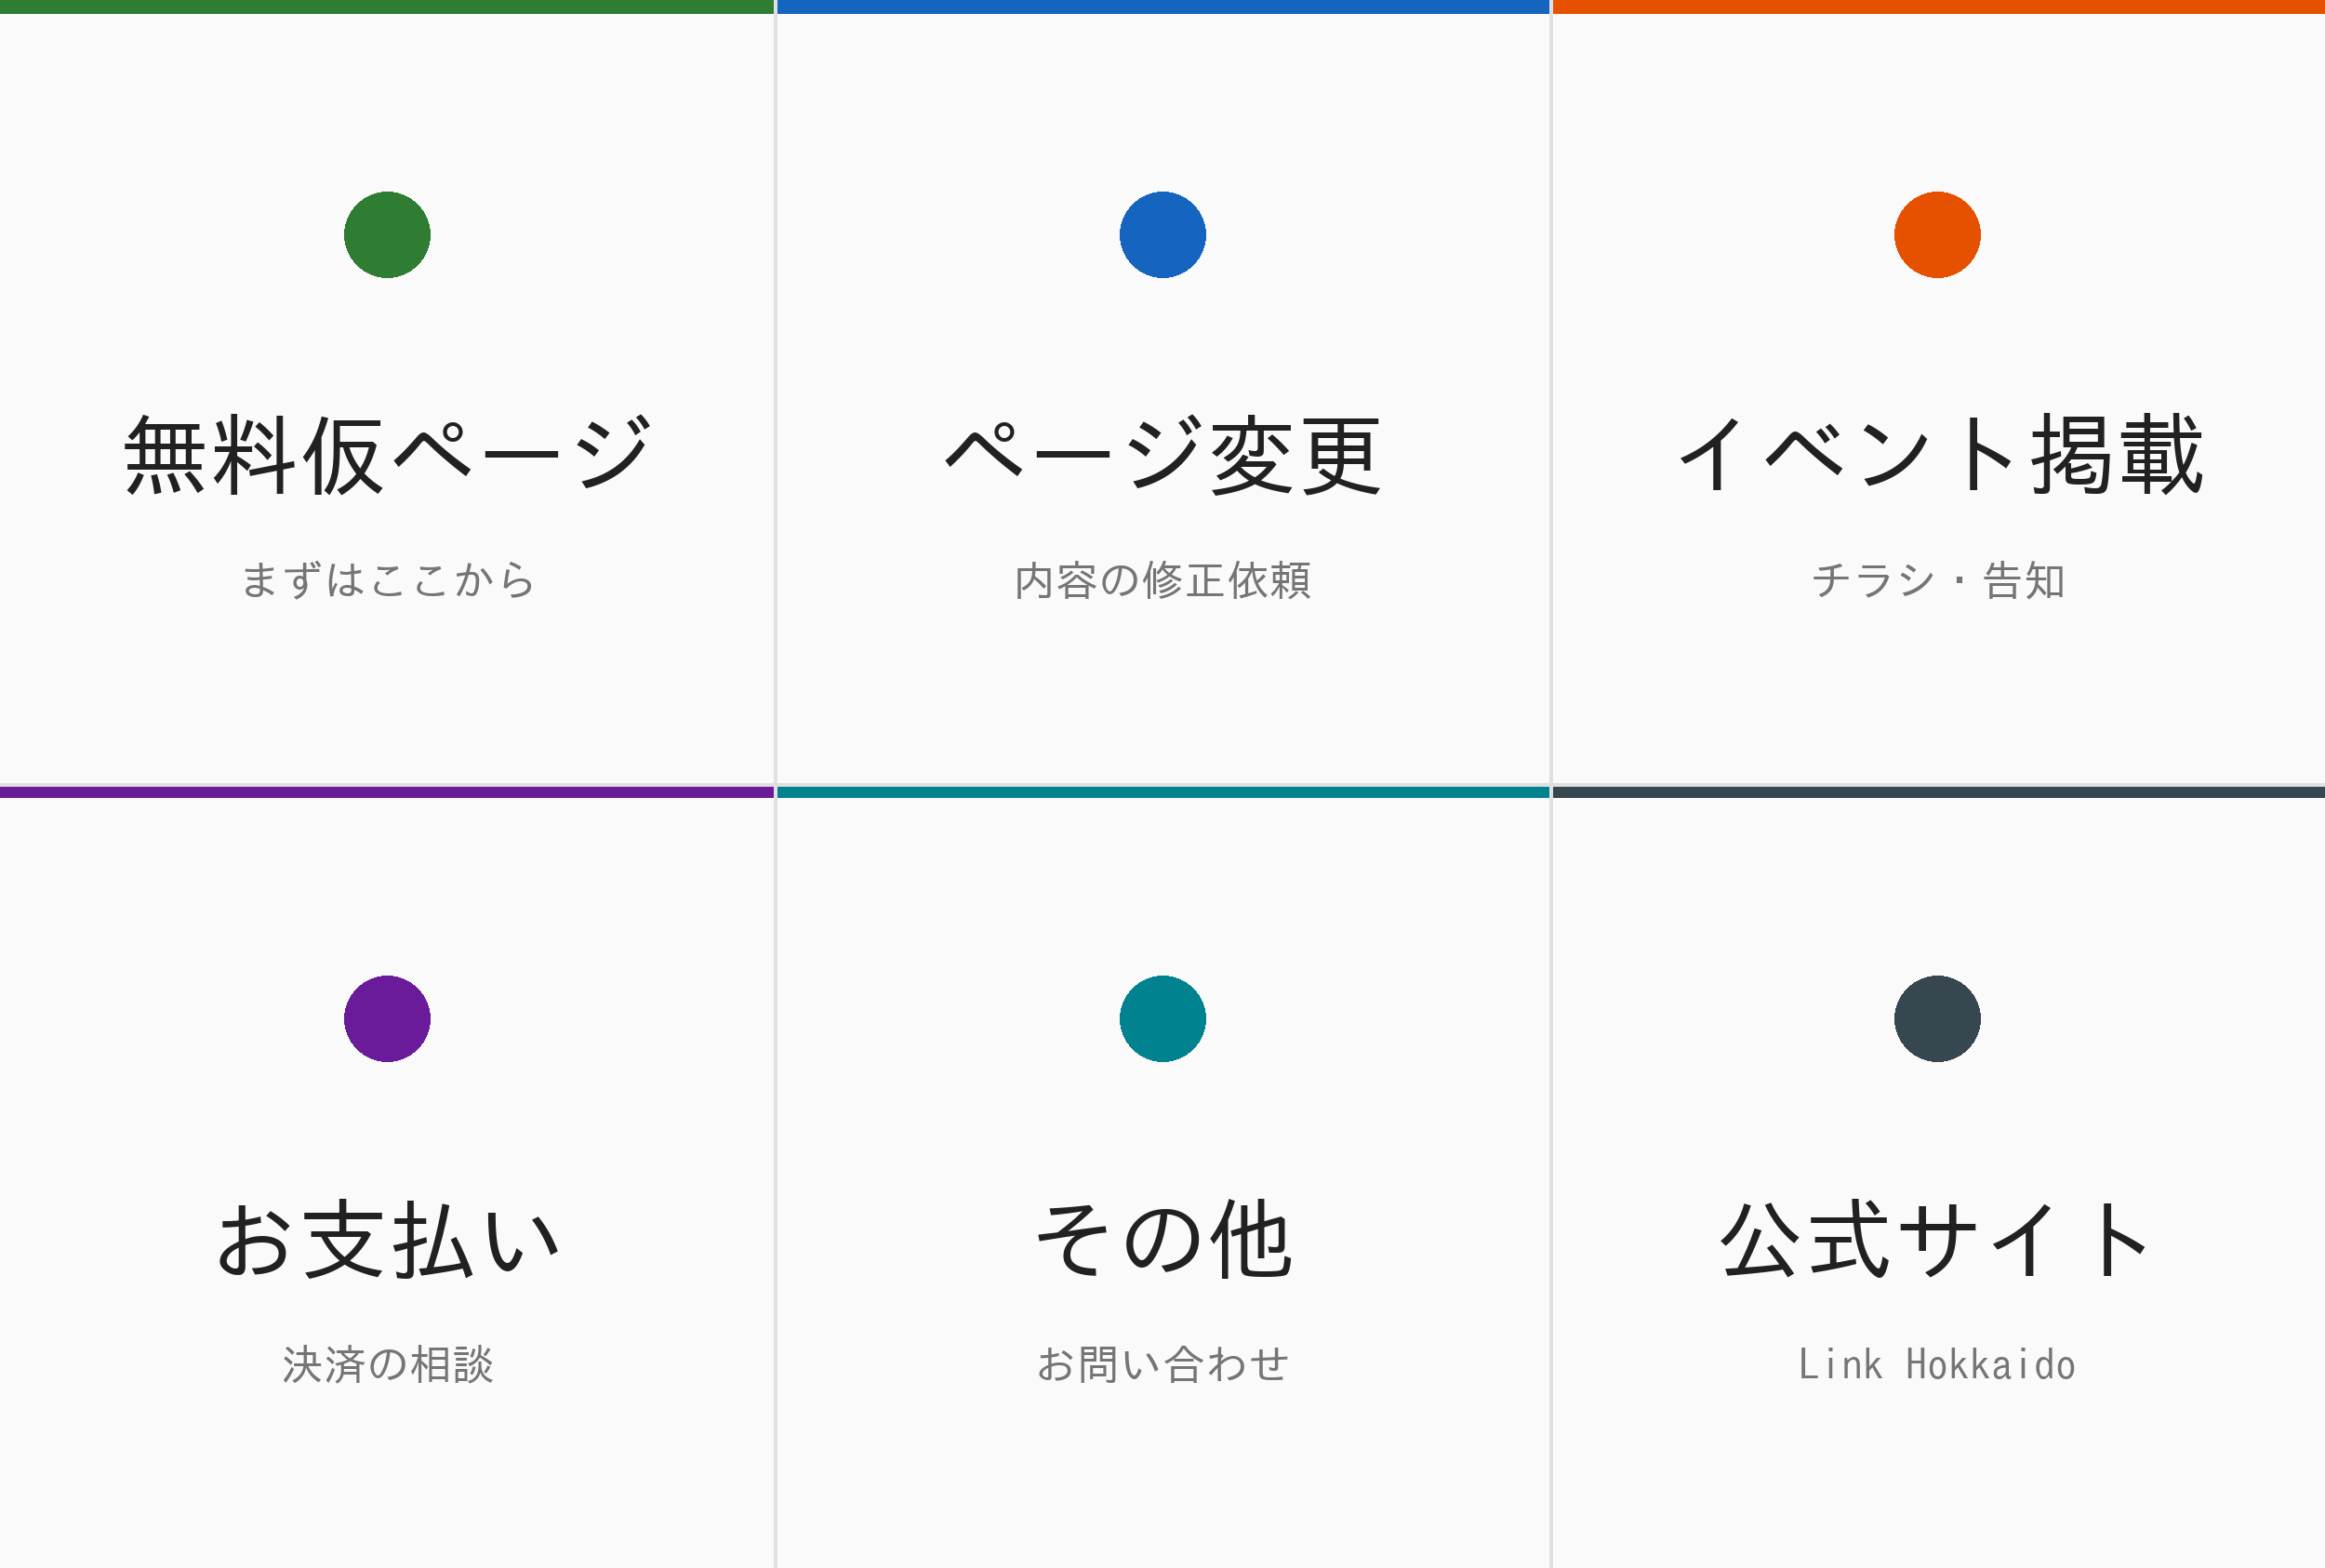
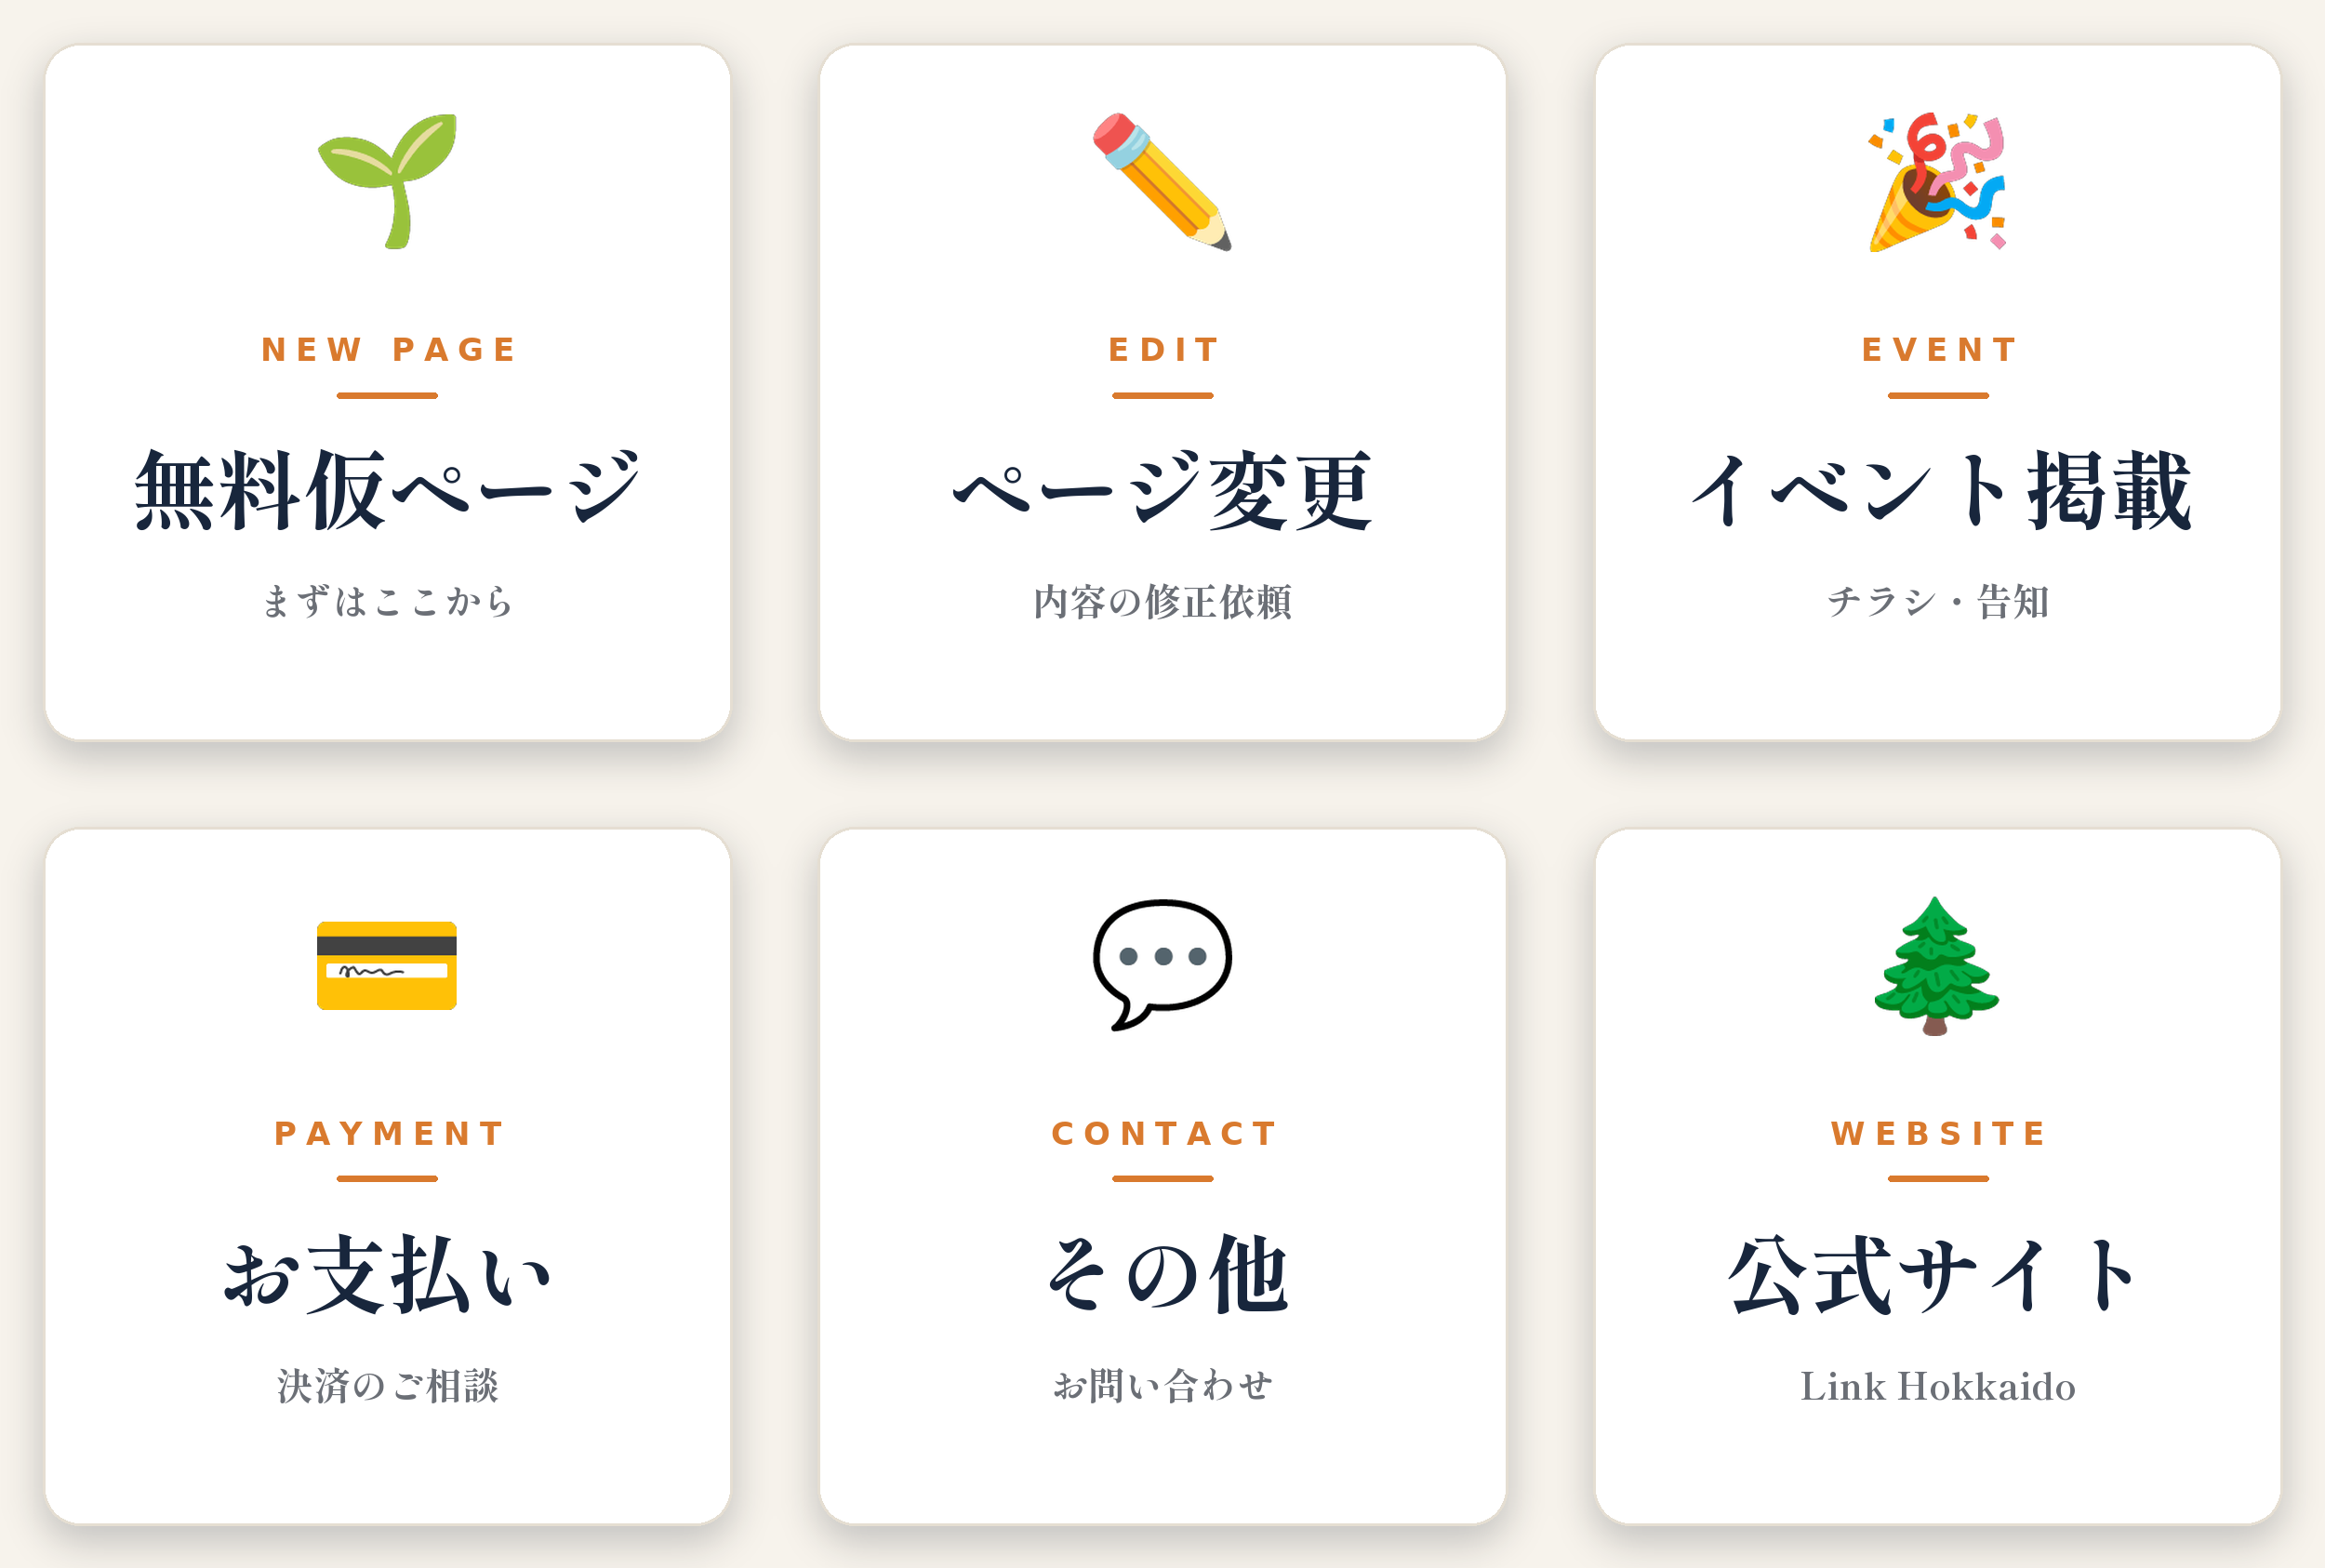
LINE受付: リッチメニューをブランド世界観に刷新
- 生成りクリーム背景・白い角丸カード(影付き)・明朝見出し(Shippori Mincho)・暖色オレンジの英ラベル・カラー絵文字アイコン
- 新richMenuId=richmenu-bb57e4e7389ebfd2255f1a3b1829d8be をデフォルト設定、旧メニューは削除済み
- 見出しフォントをfonts/に同梱、make_image.pyを刷新

diff --git a/scripts/richmenu/make_image.py b/scripts/richmenu/make_image.py
@@ -1,68 +1,139 @@
 #!/usr/bin/env python3
 # -*- coding: utf-8 -*-
-"""LINE受付ハブ リッチメニュー画像生成 (2500x1686 / 2行3列 / 6セル)
-IPAGothic を使って日本語ラベルを描画。出力: richmenu.png
+"""LINE受付ハブ リッチメニュー画像生成 v2 (2500x1686 / 2行3列 / 6セル)
+
+ブランド世界観に合わせた仕上げ:
+- 生成りクリームの背景 + 白い角丸カード(やわらかい影)
+- 見出しは明朝(Shippori Mincho Bold)・濃紺
+- 英字ミニラベルは暖色オレンジ(letter-spacing)
+- アイコンは Noto Color Emoji(カラー絵文字)
+出力: richmenu.png
 """
-from PIL import Image, ImageDraw, ImageFont
+import os
+from PIL import Image, ImageDraw, ImageFont, ImageFilter
 
 W, H = 2500, 1686
-# 列: 833 / 834 / 833  行: 843 / 843
 COLS = [(0, 833), (833, 834), (1667, 833)]
 ROWS = [(0, 843), (843, 843)]
 
-FONT_PATH = "/usr/share/fonts/opentype/ipafont-gothic/ipag.ttf"
+HERE = os.path.dirname(os.path.abspath(__file__))
+MINCHO = os.path.join(HERE, "fonts", "ShipporiMincho-Bold.ttf")
+MINCHO_FALLBACK = "/usr/share/fonts/opentype/ipafont-mincho/ipam.ttf"
+SANS = "/usr/share/fonts/truetype/dejavu/DejaVuSans-Bold.ttf"
+EMOJI = "/usr/share/fonts/truetype/noto/NotoColorEmoji.ttf"
 
-# 各セル: (見出し, 補足, アクセント色)
+# ブランドカラー
+CREAM = (0xF7, 0xF3, 0xEC)
+INK = (0x18, 0x26, 0x3C)   # 濃紺
+ORANGE = (0xD9, 0x7A, 0x2E)  # 暖色
+SUB_COL = (0x6B, 0x6F, 0x76)
+CARD_BG = (0xFF, 0xFF, 0xFF)
+CARD_LINE = (0xE5, 0xDE, 0xD2)
+
+# 各セル: (絵文字, 英ラベル, 見出し, 補足)
 CELLS = [
-    ("無料仮ページ",  "まずはここから", (0x2E, 0x7D, 0x32)),  # 緑
-    ("ページ変更",    "内容の修正依頼", (0x15, 0x65, 0xC0)),  # 青
-    ("イベント掲載",  "チラシ・告知",   (0xE6, 0x51, 0x00)),  # 橙
-    ("お支払い",      "決済の相談",     (0x6A, 0x1B, 0x9A)),  # 紫
-    ("その他",        "お問い合わせ",   (0x00, 0x83, 0x8F)),  # 青緑
-    ("公式サイト",    "Link Hokkaido", (0x37, 0x47, 0x4F)),  # 紺灰
+    ("🌱", "NEW PAGE", "無料仮ページ", "まずはここから"),
+    ("✏️", "EDIT",     "ページ変更",   "内容の修正依頼"),
+    ("🎉", "EVENT",    "イベント掲載", "チラシ・告知"),
+    ("💳", "PAYMENT",  "お支払い",     "決済のご相談"),
+    ("💬", "CONTACT",  "その他",       "お問い合わせ"),
+    ("🌲", "WEBSITE",  "公式サイト",   "Link Hokkaido"),
 ]
 
-BG = (0xFA, 0xFA, 0xFA)
-LINE_COL = (0xE0, 0xE0, 0xE0)
-TITLE_COL = (0x21, 0x21, 0x21)
-SUB_COL = (0x75, 0x75, 0x75)
+
+def mincho(sz):
+    path = MINCHO if os.path.exists(MINCHO) else MINCHO_FALLBACK
+    return ImageFont.truetype(path, sz)
+
+
+def emoji_img(ch, target):
+    """Noto Color Emoji を target px のRGBAで返す(native strikeから縮小)."""
+    for strike in (109, 136, 128):
+        try:
+            f = ImageFont.truetype(EMOJI, strike)
+        except OSError:
+            continue
+        canvas = Image.new("RGBA", (strike * 2, strike * 2), (0, 0, 0, 0))
+        d = ImageDraw.Draw(canvas)
+        try:
+            d.text((strike // 2, strike // 4), ch, font=f, embedded_color=True)
+        except Exception:
+            continue
+        bbox = canvas.getbbox()
+        if not bbox:
+            continue
+        glyph = canvas.crop(bbox)
+        scale = target / max(glyph.size)
+        nw, nh = max(1, round(glyph.width * scale)), max(1, round(glyph.height * scale))
+        return glyph.resize((nw, nh), Image.LANCZOS)
+    return None
+
+
+def rounded(draw, box, r, **kw):
+    draw.rounded_rectangle(box, radius=r, **kw)
 
 
 def main():
-    img = Image.new("RGB", (W, H), BG)
-    d = ImageDraw.Draw(img)
-    f_title = ImageFont.truetype(FONT_PATH, 96)
-    f_sub = ImageFont.truetype(FONT_PATH, 46)
+    base = Image.new("RGB", (W, H), CREAM).convert("RGBA")
 
-    def center_text(text, font, cx, cy, fill):
-        l, t, r, b = d.textbbox((0, 0), text, font=font)
-        d.text((cx - (r - l) / 2 - l, cy - (b - t) / 2 - t), text, font=font, fill=fill)
+    pad = 46          # セル内側余白
+    radius = 40
 
-    i = 0
-    for (ry, rh) in ROWS:
-        for (cx, cw) in COLS:
-            title, sub, accent = CELLS[i]
-            x0, y0 = cx, ry
-            x1, y1 = cx + cw, ry + rh
-            # アクセント帯(上部)
-            d.rectangle([x0, y0, x1, y0 + 14], fill=accent)
-            # アクセント丸(アイコン代わり)
-            r = 46
-            ccx, ccy = x0 + cw / 2, y0 + rh * 0.30
-            d.ellipse([ccx - r, ccy - r, ccx + r, ccy + r], fill=accent)
-            # 見出し・補足
-            center_text(title, f_title, x0 + cw / 2, y0 + rh * 0.58, TITLE_COL)
-            center_text(sub, f_sub, x0 + cw / 2, y0 + rh * 0.74, SUB_COL)
-            i += 1
+    # --- やわらかい影レイヤー ---
+    shadow = Image.new("RGBA", (W, H), (0, 0, 0, 0))
+    sd = ImageDraw.Draw(shadow)
+    cards = []
+    for ry, rh in ROWS:
+        for cx, cw in COLS:
+            box = [cx + pad, ry + pad, cx + cw - pad, ry + rh - pad]
+            cards.append(box)
+            sd.rounded_rectangle([box[0], box[1] + 16, box[2], box[3] + 16],
+                                 radius=radius, fill=(24, 38, 60, 60))
+    shadow = shadow.filter(ImageFilter.GaussianBlur(20))
+    base = Image.alpha_composite(base, shadow)
 
-    # グリッド線
-    for (cx, cw) in COLS[1:]:
-        d.line([(cx, 0), (cx, H)], fill=LINE_COL, width=4)
-    d.line([(0, ROWS[1][0]), (W, ROWS[1][0])], fill=LINE_COL, width=4)
+    d = ImageDraw.Draw(base)
+    f_title = mincho(92)
+    f_sub = mincho(40)
+    f_en = ImageFont.truetype(SANS, 34)
 
-    out = "richmenu.png"
-    img.save(out, "PNG", optimize=True)
-    import os
+    def center(text, font, cx, cy, fill, tracking=0):
+        if tracking:
+            widths = [d.textlength(c, font=font) for c in text]
+            total = sum(widths) + tracking * (len(text) - 1)
+            x = cx - total / 2
+            asc, desc = font.getmetrics()
+            y = cy - (asc + desc) / 2
+            for c, w in zip(text, widths):
+                d.text((x, y), c, font=font, fill=fill)
+                x += w + tracking
+        else:
+            l, t, r, b = d.textbbox((0, 0), text, font=font)
+            d.text((cx - (r - l) / 2 - l, cy - (b - t) / 2 - t), text, font=font, fill=fill)
+
+    for box, (ch, en, title, sub) in zip(cards, CELLS):
+        x0, y0, x1, y1 = box
+        cw, chh = x1 - x0, y1 - y0
+        ccx = x0 + cw / 2
+        # カード
+        d.rounded_rectangle(box, radius=radius, fill=CARD_BG, outline=CARD_LINE, width=3)
+        # アイコン(絵文字)
+        ic = emoji_img(ch, 150)
+        if ic is not None:
+            base.paste(ic, (int(ccx - ic.width / 2), int(y0 + chh * 0.20 - ic.height / 2)), ic)
+        # 英ラベル(オレンジ・字間広め)
+        center(en, f_en, ccx, y0 + chh * 0.44, ORANGE, tracking=10)
+        # オレンジの短い下線
+        ul = 54
+        d.rounded_rectangle([ccx - ul, y0 + chh * 0.50, ccx + ul, y0 + chh * 0.50 + 6],
+                            radius=3, fill=ORANGE)
+        # 見出し(明朝・濃紺)
+        center(title, f_title, ccx, y0 + chh * 0.64, INK)
+        # 補足
+        center(sub, f_sub, ccx, y0 + chh * 0.80, SUB_COL)
+
+    out = os.path.join(HERE, "richmenu.png")
+    base.convert("RGB").save(out, "PNG", optimize=True)
     print(f"wrote {out} ({os.path.getsize(out)} bytes)")
 
 

diff --git a/docs/LINE受付_引き継ぎ.md b/docs/LINE受付_引き継ぎ.md
@@ -5,9 +5,10 @@
 
 ## ✅ 完了:リッチメニュー(2026-06-13)
 **作成・画像アップロード・デフォルト設定まで完了。** 全ユーザの下部メニューに表示される。
-- `richMenuId`: `richmenu-15c6bbf27af398de8b1705048ce0803a`(デフォルト設定済 = `GET /v2/bot/user/all/richmenu` で確認済)
-- 生成物・スクリプトは `scripts/richmenu/`(`make_image.py`=画像生成 / `richmenu.json`=メニュー定義 / `deploy.sh`=一括デプロイ / `richmenu.png`=確定画像)
-- 作り直す/差し替える時は `scripts/richmenu/deploy.sh` を実行(`LINE_CHANNEL_ACCESS_TOKEN` 必須)。再実行すると**新しいIDで再作成**されるので、不要になった旧メニューは `DELETE /v2/bot/richmenu/{id}` で掃除する。
+- `richMenuId`: `richmenu-bb57e4e7389ebfd2255f1a3b1829d8be`(デフォルト設定済 = `GET /v2/bot/user/all/richmenu` で確認済)
+- デザイン: ブランド世界観に合わせた仕上げ(生成りクリーム背景 × 白い角丸カード+影 × 見出しは明朝 Shippori Mincho × 暖色オレンジの英ラベル × Noto Color Emojiのカラーアイコン)
+- 生成物・スクリプトは `scripts/richmenu/`(`make_image.py`=画像生成 / `richmenu.json`=メニュー定義 / `deploy.sh`=一括デプロイ / `richmenu.png`=確定画像 / `fonts/ShipporiMincho-Bold.ttf`=見出しフォント)
+- 作り直す/差し替える時は `scripts/richmenu/deploy.sh` を実行(`LINE_CHANNEL_ACCESS_TOKEN` 必須)。**既存メニューの画像は再アップロード不可**なので、再実行すると新IDで作り直しになる → 古いメニューは `DELETE /v2/bot/richmenu/{id}` で掃除する(deploy.sh内では消さないので手動 or 確認後に削除)。
 - ハマりどころ: デフォルト設定 `POST /v2/bot/user/all/richmenu/{id}` はボディ無しのため `Content-Length: 0` を付けないと Akamai が **HTTP 411** を返す(deploy.sh は対応済)。
 
 ## (旧)今すぐの依頼 — 上記で完了済み